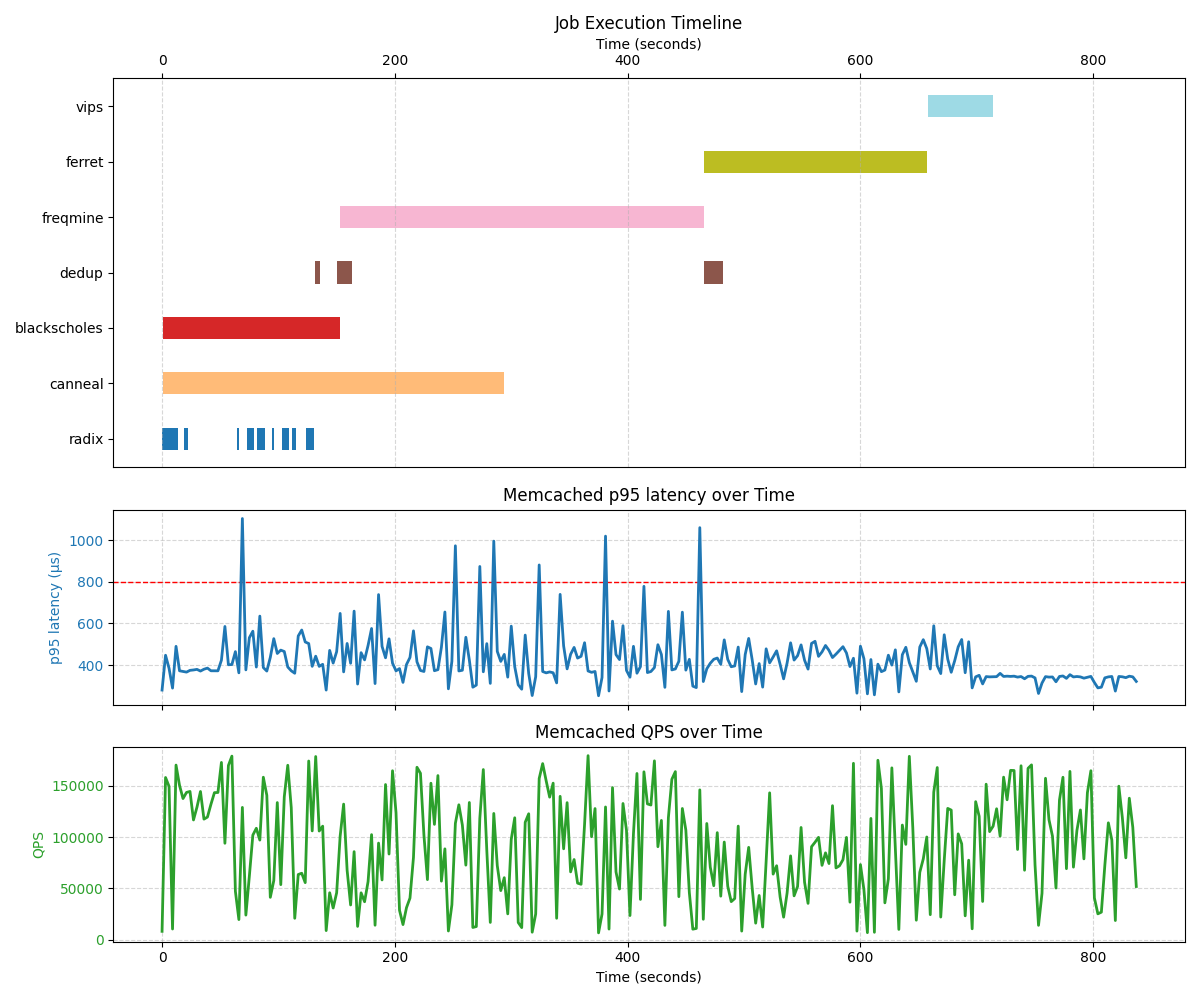
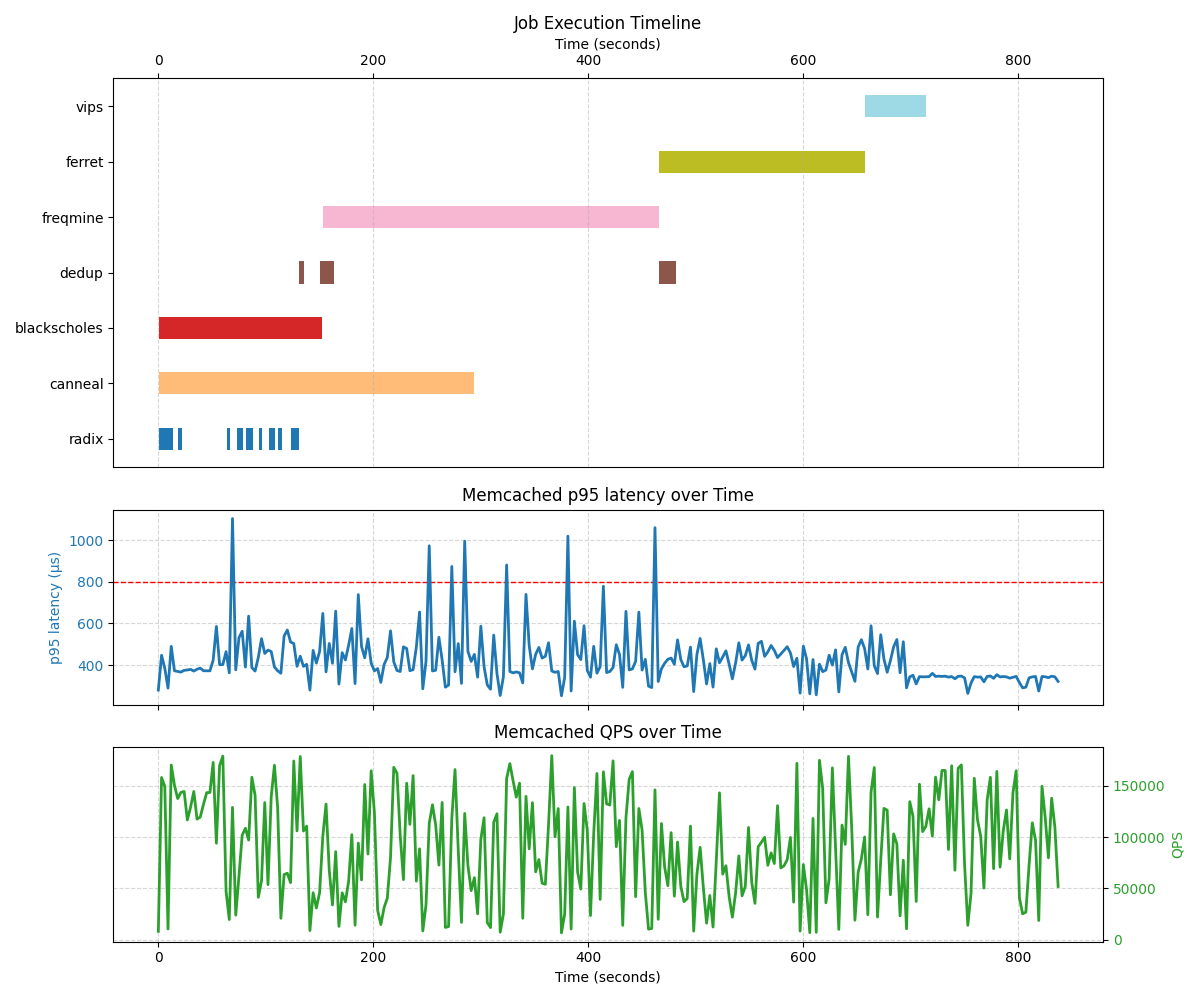
move y axis lower to right

diff --git a/part4/plot_4_3_A.py b/part4/plot_4_3_A.py
@@ -3,18 +3,17 @@ from datetime import datetime
 from collections import defaultdict
 import matplotlib.cm as cm
 import pandas as pd
+import os
 
 def plot_job_log_file(ax, log_file):
     with open(log_file, "r") as f:
         lines = f.readlines()
 
-    job_states = defaultdict(list)   # job -> list of (start_time, end_time)
-    job_status = {}                  # job -> (status, start_time)
-    job_first_start_time = {}        # job -> first start time
-
+    job_states = defaultdict(list)
+    job_status = {}
+    job_first_start_time = {}
     time_format = "%Y-%m-%dT%H:%M:%S.%f"
 
-    # Parse timestamps to find T0
     timestamps = []
     for line in lines:
         if line.strip():
@@ -22,12 +21,10 @@ def plot_job_log_file(ax, log_file):
             timestamps.append(datetime.strptime(ts_str, time_format))
     T0 = min(timestamps)
 
-    # Process log entries
     for line in lines:
         line = line.strip()
         if not line:
             continue
-
         timestamp_str, rest = line.split(" ", 1)
         timestamp = datetime.strptime(timestamp_str, time_format)
         t_sec = (timestamp - T0).total_seconds()
@@ -39,18 +36,15 @@ def plot_job_log_file(ax, log_file):
             job_status[job] = ("running", t_sec)
             if job not in job_first_start_time:
                 job_first_start_time[job] = t_sec
-
         elif rest.startswith("pause"):
             job = rest.split()[1]
             if job in job_status and job_status[job][0] == "running":
                 start_sec = job_status[job][1]
                 job_states[job].append((start_sec, t_sec))
                 job_status[job] = ("paused", None)
-
         elif rest.startswith("unpause"):
             job = rest.split()[1]
             job_status[job] = ("running", t_sec)
-
         elif rest.startswith("end"):
             job = rest.split()[1]
             if job == "scheduler" or job == "memcached":
@@ -60,17 +54,12 @@ def plot_job_log_file(ax, log_file):
                 job_states[job].append((start_sec, t_sec))
             job_status.pop(job, None)
 
-    # Sort jobs by first start time
     sorted_jobs = sorted(job_first_start_time.keys(), key=lambda j: job_first_start_time[j])[1:]
-
-    # Assign a consistent color for each job
     colormap = cm.get_cmap('tab20', len(sorted_jobs))
     job_colors = {job: colormap(i) for i, job in enumerate(sorted_jobs)}
 
-    # Plot
     yticks = []
     yticklabels = []
-
     for i, job in enumerate(sorted_jobs):
         color = job_colors[job]
         for start, end in job_states[job]:
@@ -82,7 +71,6 @@ def plot_job_log_file(ax, log_file):
     ax.set_yticklabels(yticklabels)
     ax.set_xlabel("Time (seconds)")
     ax.set_title("Job Execution Timeline")
-
     ax.grid(True, which='both', axis='x', linestyle='--', alpha=0.5)
     ax.xaxis.set_ticks_position('top')
     ax.xaxis.set_label_position('top')
@@ -100,7 +88,10 @@ def plot_mcperf_p95_qps(ax_p95, ax_qps, log_file):
     ax_p95.set_title('Memcached p95 latency over Time')
     ax_p95.grid(True, linestyle='--', alpha=0.5)
 
-    # QPS
+    # QPS with y-axis on the right
+    ax_qps.spines['right'].set_position(('outward', 0))
+    ax_qps.yaxis.set_label_position('right')
+    ax_qps.yaxis.tick_right()
     ax_qps.plot(df['Timestamp'], df['QPS'], color='tab:green', label='QPS', linewidth=2)
     ax_qps.set_ylabel('QPS', color='tab:green')
     ax_qps.set_xlabel('Time (seconds)')
@@ -111,6 +102,8 @@ def plot_mcperf_p95_qps(ax_p95, ax_qps, log_file):
 if __name__ == "__main__":
     job_logs = ["task3_outfiles/jobs_1.txt", "task3_outfiles/jobs_2.txt", "task3_outfiles/jobs_3.txt"]
     mcperf_logs = ["task3_outfiles/mcperf_1.txt", "task3_outfiles/mcperf_2.txt", "task3_outfiles/mcperf_3.txt"]
+
+    os.makedirs("part4_3", exist_ok=True)
 
     for idx, log_file in enumerate(job_logs):
         fig, (ax_top, ax_mid, ax_bottom) = plt.subplots(

diff --git a/part4/plot_4_4_A.py b/part4/plot_4_4_A.py
@@ -88,7 +88,10 @@ def plot_mcperf_split(ax_p95, ax_qps, log_file):
     ax_p95.tick_params(axis='y', labelcolor='tab:blue')
     ax_p95.grid(True, linestyle='--', alpha=0.5)
 
-    # QPS
+    # QPS (y-axis on the right)
+    ax_qps.spines['right'].set_position(('outward', 0))
+    ax_qps.yaxis.set_label_position('right')
+    ax_qps.yaxis.tick_right()
     ax_qps.plot(df['Timestamp'], df['QPS'], color='tab:green', linewidth=2)
     ax_qps.set_ylabel('QPS', color='tab:green')
     ax_qps.set_xlabel('Time (seconds)')
